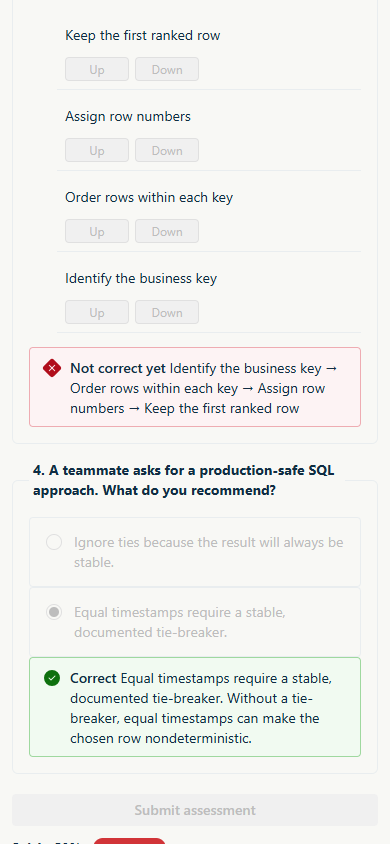
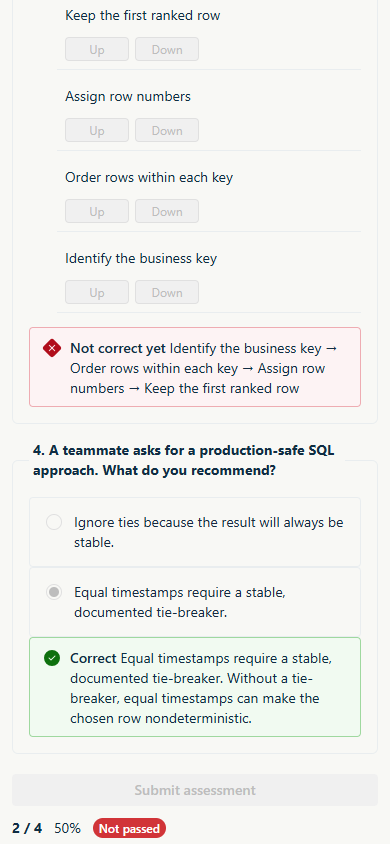
fix(a11y): preserve interview review contrast and finalize V3 audits

diff --git a/project/conceptmotion_studio/tests/browser/v3-practice.spec.ts b/project/conceptmotion_studio/tests/browser/v3-practice.spec.ts
@@ -90,6 +90,12 @@ test('Code Interview uses distinct sessions, submission review, flags and domain
   await page.getByRole('button', { name: 'Flag question 1', exact: true }).click();
   await page.getByRole('button', { name: 'Submit assessment' }).click();
   await expect(page.getByText('2 / 4', { exact: true })).toBeVisible();
+  const submittedRadios = page.getByRole('radio');
+  await expect(submittedRadios).toHaveCount(6);
+  for (const radio of await submittedRadios.all()) await expect(radio).toBeDisabled();
+  const answerLabels = page.locator('.dp-assessment-question .fui-Radio__label');
+  await expect(answerLabels).toHaveCount(6);
+  for (const label of await answerLabels.all()) await expect(label).toHaveCSS('color', 'rgb(23, 43, 66)');
   await accessible(page);
   await page.screenshot({ path: `qa/screenshots/v3-code-interview-${info.project.name}.png`, animations: 'disabled' });
   await page.getByRole('button', { name: 'Progress', exact: true }).click();

diff --git a/project/conceptmotion_studio/apps/code-interview/src/styles.css b/project/conceptmotion_studio/apps/code-interview/src/styles.css
@@ -13,5 +13,5 @@ html, body, #root { margin: 0; min-height: 100%; background: #f8f7f4; color: #17
 .interview-backup { max-width: 900px; }
 .interview-coding .dp-practice-workbench { margin-top: 1.25rem; }
 /* Submitted answers remain disabled, but their labels must stay readable during review. */
-.dp-assessment-question .fui-Radio__label { color: #172b42; }
+.dp-assessment-question .fui-Radio__input:disabled ~ .fui-Radio__label { color: #172b42; }
 @media (max-width: 700px) { .dp-app-shell__main { padding: .75rem; } .interview-review, .interview-coding { padding: .75rem; } }

diff --git a/V3_TEST_REPORT.md b/V3_TEST_REPORT.md
@@ -2,7 +2,7 @@
 
 ## Environment and baseline
 
-Local validation: Windows, Node **24.19.0**, pnpm **11.19.0**, TypeScript **7.0.2**, Vite **8.2.2**, Vitest **5.0.0**, Playwright **1.62.1**, Chrome desktop 1440×1000 and phone 390×844. Commands ran from `project/conceptmotion_studio` on 4 September 2026. The workspace has 20 projects and seven application TypeScript references.
+Local validation: Windows, Node **24.19.0**, pnpm **11.19.0**, TypeScript **7.0.2**, Vite **8.2.2**, Vitest **5.0.0**, Playwright **1.62.1**, Chrome desktop 1440×1000 and phone 390×844. Commands ran from `project/conceptmotion_studio` on 4–5 September 2026. The workspace has 20 projects and seven application TypeScript references.
 
 Starting main: `8cccd77ecd0d0b60b1d28ee2e41cffe5ec78a26f`.
 
@@ -12,13 +12,13 @@ The required CI repair was completed **before V3 implementation**. Commit `df989
 
 `pnpm install --frozen-lockfile`: **PASS**, exit 0, all 20 workspace projects already synchronized.
 
-`pnpm run check`: **PASS**, exit 0 after the final review fixes. This command runs every row below in sequence; no old gate was skipped.
+The initial `pnpm run check` passed with 262 unit tests and 36 browser tests. After the hosted Linux layout corrections, every constituent stage was rerun: `pnpm run check:offline`, `build`, `build:consumer`, `build:v3`, `build:legacy`, `build:storybook`, `test:privacy`, and a separate `test:browser` run. No old gate was skipped. The table records the latest results.
 
 | Command / stage | Exact result |
 | --- | --- |
 | `test:practice-import` | PASS; raw audit and public projection byte-equivalent to deterministic generation; 323 distinct IDs, 500 variants, no excluded items |
 | `test:legacy` | PASS; 186 concepts / 12 categories, 36 scenes, 28 legacy renderer families, 16 sheets, 15 cross-language actions, three generator contracts, 21 handoff-document checks, Python rolling-window canonical-data smoke |
-| `test:unit` | PASS; **262 tests in 46 files**, 16.84 seconds; all six pure-package coverage floors passed |
+| `test:unit` | PASS; **262 tests in 46 files**, 30.75 seconds; all six pure-package coverage floors passed |
 | `check:boundaries` | PASS; **106 source files, 12 package boundaries** |
 | `test:scaffold` | PASS; knowledge, learning, catalog and portfolio-hub; nine files each, deterministic generation plus typecheck/build/baseline tests |
 | `build` / `typecheck` / Studio bundle audit | PASS; all app references; Catalog/Knowledge exclude Monaco and code/spec routes reach it lazily |
@@ -27,10 +27,10 @@ The required CI repair was completed **before V3 implementation**. Commit `df989
 | `build:legacy` | PASS; preserved JS/D3 app |
 | `build:storybook` | PASS; **38 Golden Gallery stories** indexed; six new reuse stories plus all 32 existing stories |
 | `test:privacy` | PASS; **nine outputs, 311 textual files**, including source maps; zero prohibited private-source URL findings; 15 binary assets excluded |
-| `test:browser` | PASS; **36/36 desktop/phone tests**, 3.7 minutes; all old/new flows, enabled screenshots, keyboard, primary-surface Axe and overflow assertions |
+| `test:browser` | PASS; **40/40 desktop/phone tests**, 4.7 minutes; all old/new flows, enabled screenshots, keyboard, primary-surface Axe, overflow and submitted-label color assertions |
 | `git diff --check` | PASS; no whitespace errors |
 
-An earlier complete integration pass also passed 235 unit tests and 36 browser tests in 4.1 minutes. The final rerun above supersedes it and includes the final resource/privacy/accessibility/review corrections.
+An earlier complete integration pass also passed 235 unit tests and 36 browser tests in 4.1 minutes. The latest checks supersede the earlier runs and include the final resource/privacy/accessibility/review and cross-platform layout corrections. Every stage, including the full 40-case browser run, completed with exit 0.
 
 ## Pure-package coverage
 
@@ -57,10 +57,20 @@ Browser tests traverse Formation course/figure/assessment/progress, Sandbox cata
 
 Development runs exposed real navigation/contrast/typing issues and a Monaco test targeting error. Final review additionally fixed review-queue semantics, out-of-range figure steps, Windows LF corpus handling, oversized join allocation, Python lesson Figure metadata, repeated SVG accessibility IDs and private-source publication. None was waived by removing an assertion or disabling screenshots. Targeted fixes were tested before the full rerun.
 
+The first V3 hosted run exposed two Linux-only phone overflows: Sandbox's native track Select and Pilot's implicit backup grid minimum. Scoped shrinkable Field/Select wrappers and an explicit `minmax(0, 1fr)` grid track fix their intrinsic-width cause. Font-stress regressions test the longest Sandbox option at 390/360/320 pixels and Pilot's wider select metrics, long filename, keyboard preview and per-control containment. The Sandbox regression failed before its fix with 18 pixels of overflow; all **12 targeted browser cases passed in 1.4 minutes** afterward. The original one-pixel overflow threshold, Axe assertions and screenshot comparisons remain unchanged.
+
+Final screenshot review caught an Interview disabled-label specificity issue outside Axe's inactive-control contrast checks. The new explicit color assertion reproduced gray `rgb(189, 189, 189)` before the fix. A disabled-input sibling selector now keeps all six answer labels at navy `rgb(23, 43, 66)` while all six radios remain disabled. Both targeted desktop/phone Interview cases passed **2/2 in 11.7 seconds**, and refreshed screenshots were inspected. Consumer builds, manifest budgets and the nine-output privacy scan were rerun after this CSS correction. A final full browser rerun, including the color assertions, passed **40/40 in 4.7 minutes** and supersedes the preceding 4.6-minute local browser run.
+
 Expected non-fatal warnings remain: Vite's large lazy Monaco/JSON/corpus chunks, terminal NO_COLOR/FORCE_COLOR interaction and Vitest's environment-performance suggestion. These are not failed gates. Browser checks use Vite-served production components; independent production builds/manifests and output privacy checks are also required. Storybook build success does not claim an automated accessibility audit of every story.
 
 ## Hosted V3 delivery
 
-The repaired V2 baseline is hosted-green as recorded above. The V3 implementation must now be pushed and its hosted run verified; this section will be updated with that observed result before final delivery. No hosted V3 success is inferred from local results.
+The repaired V2 baseline is hosted-green as recorded above. [First V3 run 33921026472](https://github.com/julian-passebecq/react_ms_fluent_2_framework/actions/runs/33921026472), for `f7737fbc0825323408c88e2534f7a5fcd0083604`, concluded **failure**: all non-browser stages passed, and 34/36 browser cases passed; only the two Linux phone overflow checks above failed. All pre-existing screenshot comparisons passed.
+
+The responsive fix is pushed as `57a79fca5fe4ff3a78b08cc18b2bce98d7a68074`. Its [hosted run 33923038383](https://github.com/julian-passebecq/react_ms_fluent_2_framework/actions/runs/33923038383) concluded **success**: all stages passed, including all **40 browser tests in 6.1 minutes**. The quality job completed in **8 minutes 14 seconds** on Ubuntu. This is observed hosted V3 success, including the Linux layout fixes and enabled original screenshot comparisons.
+
+GitHub emitted one non-failing action-runtime warning: the pinned v4 actions and pnpm setup action declare Node 20 and were forced to the hosted Node 24 action runtime. Application/toolchain commands explicitly use Node 24.19.0. No action warning was suppressed or QA gate bypassed.
+
+The delivery commit adds these observed audit results, refreshed evidence and the separately tested Interview label-specificity correction. Its own hosted check is required before handoff. To avoid a self-referential commit hash in this file, the final delivery message provides that exact immutable SHA, run URL and observed conclusion; the linked successful code-validation run above remains reproducible evidence.
 
 Evidence lives in `qa/screenshots/`, `qa/v3-bundles.json`, `qa/v3-bundle-privacy.json`, `coverage/` and the GitHub Actions artifacts. The final delivery message identifies the final pushed SHA and its exact Actions conclusion.

diff --git a/V3_MIGRATION_LOG.md b/V3_MIGRATION_LOG.md
@@ -38,6 +38,14 @@ Retained every old QA gate and added full-corpus reconciliation, all-scene seman
 
 See the test/audit reports for final evidence. No deployment beyond the explicitly requested repository commit/push and hosted GitHub Actions was performed.
 
+### 6. Hosted cross-platform verification
+
+The first V3 implementation commit `f7737fbc0825323408c88e2534f7a5fcd0083604` passed all non-browser hosted stages and 34 of 36 browser cases in [run 33921026472](https://github.com/julian-passebecq/react_ms_fluent_2_framework/actions/runs/33921026472). The two failures were Linux phone horizontal overflow in Sandbox's native track selector and Pilot's backup form. Existing screenshot comparisons passed. Downloaded failure images isolated platform-font intrinsic widths; no screenshot tolerance or browser assertion was relaxed.
+
+Commit `57a79fca5fe4ff3a78b08cc18b2bce98d7a68074` adds scoped width constraints and font-stress regressions. The Sandbox regression reproduced 18 pixels of overflow locally before its fix; all 12 targeted Sandbox/Interview/Pilot browser cases passed afterward. The complete matrix now has 40 cases, including 390/360/320-pixel Sandbox checks and a long-filename Pilot restore with wider select metrics. Final full local and hosted outcomes are recorded in the test report.
+
+[Run 33923038383](https://github.com/julian-passebecq/react_ms_fluent_2_framework/actions/runs/33923038383) concluded **success**, including all 40 Linux browser cases in 6.1 minutes and every earlier gate. Final screenshot review then strengthened submitted Interview answer-label styling against Fluent's disabled-state specificity, with an explicit red/green computed-color regression preserving disabled semantics. The delivery commit records observed evidence and still requires its own hosted green check before handoff.
+
 ## Migration/rollback notes
 
 Existing V1.1/V2 keys and IDs remain readable. Formation's filesystem rename is the intentional path change; use `pnpm run dev:consumer` and `dist-formation`. New apps own distinct local keys. Pilot and practice backups are explicit local files; preserve them before clearing browser data. No automatic migration from the old external trainer's browser storage is claimed. Historical V1/V2 reports and source handoffs remain unchanged.

diff --git a/V3_AUDIT_SELF_REVIEW.md b/V3_AUDIT_SELF_REVIEW.md
@@ -25,7 +25,7 @@ Preserved gates include pure ConceptMotion core, pure knowledge, semantic-first 
 
 - Missing Linux baseline images: restored from reviewed failed-run artifacts; hosted V2 green proved separately.
 - Pilot inline navigation overlap and phone filter density: scoped layout and collapsible filters.
-- Submitted Interview answer labels: readable contrast despite disabled controls.
+- Submitted Interview answer labels: readable contrast despite disabled controls. Final screenshot review exposed Fluent's higher-specificity disabled rule; a targeted sibling selector and explicit computed-color assertions now verify all six read-only labels while preserving disabled semantics.
 - Monaco browser edits: keyboard-focus the actual accessible native edit context instead of the inactive textarea.
 - Figure export: unavailable/fallback renderers no longer advertise SVG export; filenames sanitized.
 - Mobile scenes: scoped pannable production canvas plus accessible text/captions and keyboard region.
@@ -34,6 +34,7 @@ Preserved gates include pure ConceptMotion core, pure knowledge, semantic-first 
 - Private source repository links: visibility audit drives removal from public runtime output and an emitted-file privacy gate.
 - Visual Sandbox resource safety: joins are rejected before multiplicative compilation when candidate pairs/cells exceed the preview budget; table cells, nesting, arrays, frames and UTF-8 input bytes are bounded.
 - Multi-figure accessibility: per-instance SVG title/description references avoid same-family collisions in long lessons.
+- Hosted Linux phone overflow: native select option widths exposed an intrinsic-width issue in Sandbox filters and Pilot's backup grid. Scoped shrinkable controls and an explicit `minmax(0, 1fr)` grid track address the cause; new fallback-font/control-bound regressions retain all options, Axe checks and the original one-pixel overflow limit.
 
 ## Intentional limitations
 

diff --git a/V3_VISUAL_MIGRATION_REPORT.md b/V3_VISUAL_MIGRATION_REPORT.md
@@ -90,4 +90,4 @@ Narrow player containers expose a keyboard-focusable, labelled horizontal figure
 
 Targeted checks passed: both atlas app TypeScript builds; 48 unit tests across the migration invariants, architecture variants, pure layouts and FigurePlayer; four Playwright atlas flows across desktop 1440px and phone 390px. The browser checks assert keyboard selection, reduced-motion/manual controls, correct provider lens, real SVG downloads, shared Workflow/Lineage rendering, no page overflow, no serious/critical Axe findings and no Monaco on Algorithm Atlas paths. Screenshot evidence is under `project/conceptmotion_studio/qa/screenshots/v3-algorithm-*` and `v3-architecture-*`. Authoritative final gate/hosted results are recorded in `V3_TEST_REPORT.md`.
 
-Class D deferrals include logistic probability/boundary geometry, random forests, gradient boosting, k-NN, SVM, k-means iteration geometry, PCA projections, neural-network geometry, and the remaining historical 28 legacy renderer families. They need no placeholder new renderer in V3. No D3 SDK/Power BI rewrite, GeoStory, model training, Spark/Jupyter runtime, backend or external monitoring was added.
+Class D deferrals include new typed semantic migrations for logistic probability/boundary geometry, random forests, gradient boosting, k-NN, SVM, k-means iteration geometry, PCA projections and neural-network geometry. Broader consolidation of the historical 28 legacy renderer families into typed semantic contracts is also deferred; their existing implementations remain preserved and tested in the legacy app. These deferrals need no placeholder new renderer in V3. No D3 SDK/Power BI rewrite, GeoStory, model training, Spark/Jupyter runtime, backend or external monitoring was added.

diff --git a/V3_BUNDLE_REPORT.md b/V3_BUNDLE_REPORT.md
@@ -20,8 +20,8 @@ The Studio's preserved manifest audit reports initial Catalog closure **705,177 
 ## Meaningful lazy payloads
 
 - Code Sandbox's full public practice chunk is **706.54 kB raw / 127.17 kB gzip**, down from the pre-projection raw-source chunk of 1050.51 / 148.64. The full 323 items and 500 variants remain; redundant private/raw provenance is outside the public graph.
-- Code Interview's lazy Session chunk is **902.03 kB raw / 181.86 kB gzip**. Its initial session selection does not load the full corpus/editor.
-- Pilot's Projects, Ideas and Backups are separate lazy routes. Projects is **131.47 kB raw / 37.54 kB gzip**.
+- Code Interview's lazy Session chunk is **902.03 kB raw / 181.87 kB gzip**. Its initial session selection does not load the full corpus/editor.
+- Pilot's Projects, Ideas and Backups are separate lazy routes. Projects is **131.47 kB raw / 37.53 kB gzip**.
 - Shared Monaco implementation is approximately **2676.21 kB raw / 689.06 kB gzip** in coding consumers; JSON language service is about **1207.73 / 307.21**. The Studio audit counts **3,906,487 lazy editor bytes** including language chunks. Local editor/JSON workers are separate assets.
 
 Vite's >500 kB warnings remain visible. V3 does not hide them by inflating the warning limit or blocking release solely on the intentionally lazy Monaco payload. The bounded initial-route ceilings prevent an editor or full corpus from silently becoming an entry dependency.

diff --git a/V3_CONSUMER_VALIDATION.md b/V3_CONSUMER_VALIDATION.md
@@ -16,6 +16,8 @@ The desktop/phone matrix is 1440×1000 and 390×844 in Chrome, with reduced-moti
 
 The full browser matrix requires zero serious/critical Axe findings and no page-level horizontal overflow on primary surfaces. Primary controls have keyboard paths. Narrow FigurePlayer canvases retain readable marks in a keyboard-focusable horizontal pan region; surrounding prose/captions remain full-width and readable. Panning does not create page overflow. The existing V2 table/workflow screenshot assertions remain enabled.
 
+Cross-platform regressions additionally stress native select font metrics: Sandbox selects its longest track option at 390, 360 and 320 pixels; Pilot previews an overlay file with a long filename and checks every backup control against the panel bounds. These reproduce the intrinsic-width mechanism found by Linux CI without hiding overflow or weakening accessibility assertions.
+
 ## Visual language and review
 
 The bundled Formation image was used as direction, not copied as a literal page. Shared Fluent controls sit on warm neutral surfaces with navy text, restrained teal and sparse amber. Message-first titles/takeaways and textual explanations carry the lesson. Professional Figure profiles use shared renderer tokens; default V2 geometry is unchanged. No theme engine, neon hero or decorative force simulation was added.
